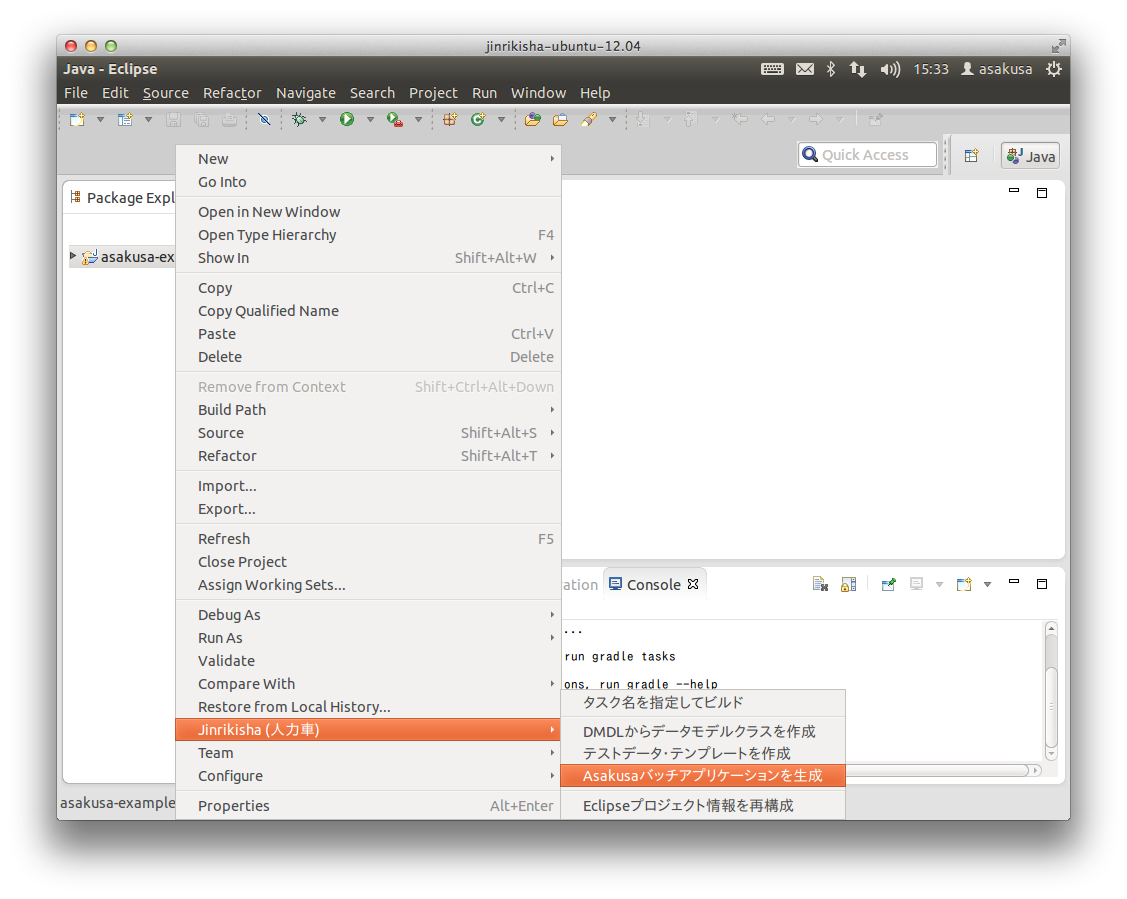
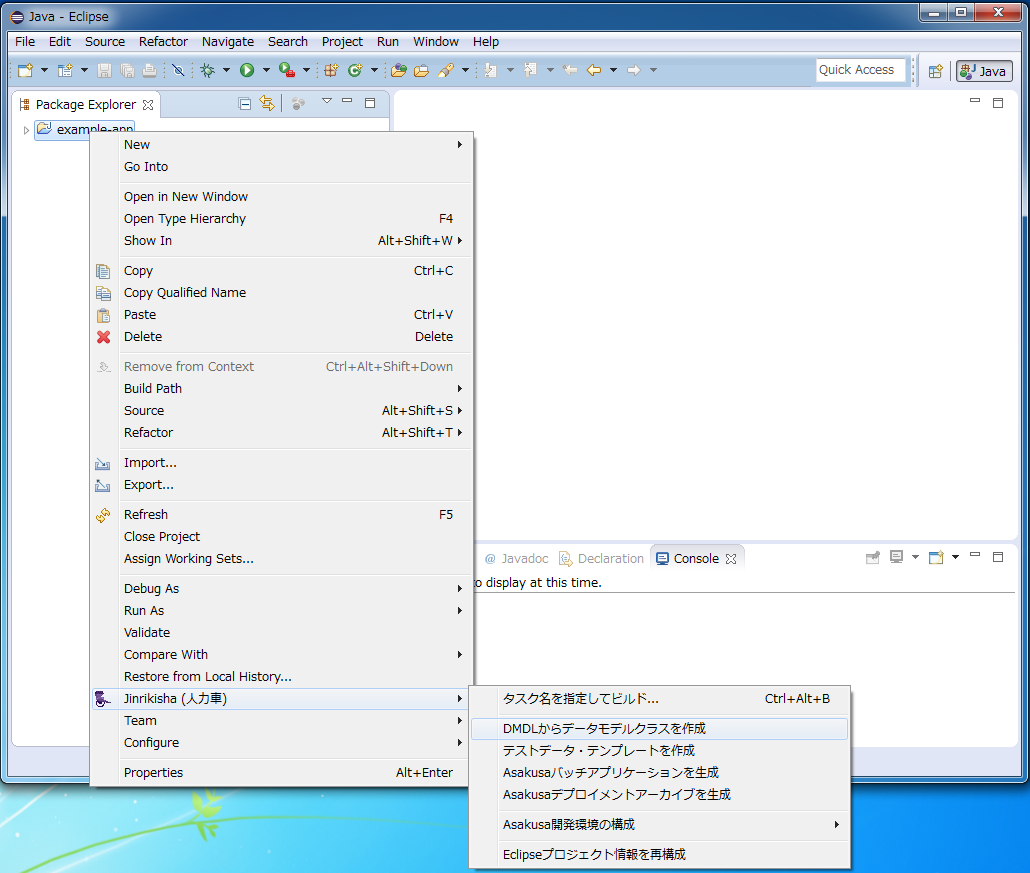
Revised document for release 0.7.2

diff --git a/jinrikisha/docs/ja/source/conf.py b/jinrikisha/docs/ja/source/conf.py
@@ -55,9 +55,9 @@ copyright = u'2012-2014, Asakusa Framework Team'
 # built documents.
 #
 # The short X.Y version.
-version = '0.7.1'
+version = '0.7.2'
 # The full version, including alpha/beta/rc tags.
-release = '0.7.1'
+release = '0.7.2'
 
 # The language for content autogenerated by Sphinx. Refer to documentation
 # for a list of supported languages.

diff --git a/jinrikisha/docs/ja/source/shafu.rst b/jinrikisha/docs/ja/source/shafu.rst
@@ -29,7 +29,7 @@ Shafuは以下のプラットフォームで動作を検証しています。
       - 備考
     * - IDE
       - Eclipse
-      - 4.3.2 / 4.4.0
+      - 4.3.2 / 4.4.1
       - 
     * - Java
       - Oracle JDK
@@ -50,7 +50,11 @@ Shafuは以下のプラットフォームで動作を検証しています。
     * - OS
       - MacOSX
       - 10.7 / 10.9
-      - 基本的な動作確認のみ [#]_
+      - [#]_
+    * - OS
+      - Windows
+      - 7 SP1 / 8.1
+      -
 
 ..  [#] MacOSXでJDK6を利用する場合、Eclipse実行時の文字エンコーディングをUTF-8などの日本語を利用できる環境にする必要があります。 `Eclipseの公式サイト`_ などを参考に、 ``eclipse.ini`` ファイルの ``-vmargs`` 以降の行に ``-Dfile.encoding=UTF-8`` の記述を追加してください。なおJinrikishaで構築した環境では環境変数 ``_JAVA_OPTIONS`` 経由で ``file.encoding`` が設定されるためこの設定は不要です。
 
@@ -93,55 +97,79 @@ Gradleプロジェクトのインポート
 ------------------------------
 ローカルに配置したGradleベースのプロジェクトをEclipseワークスペース上にインポートすることができます。単体のプロジェクトをインポートするほか、複数のプロジェクトから構成されるマルチプロジェクト構成のプロジェクトを一括してインポートすることもできます。
 
-..  figure:: images/shafu-import-project.png
-    :width: 100%
-
 #. Javaパースペクティブ上のメインメニューなどから ``[File]`` - ``[Import]`` を選択します。
 #. インポート選択画面で ``[Jinrikisha (人力車)]`` - ``[Gradle プロジェクト]`` を選択して ``[Next >]`` ボタンを押します。
 #. プロジェクトディレクトリーの選択ダイアログで、ローカルに配置されているGradleプロジェクトのディレクトリーパスを選択して ``[Next >]`` ボタンを押します。
 #. インポート対象のプロジェクト選択で、インポート対象のプロジェクトを選択して ``[Finish]`` ボタンを押します。
 
-
 プロジェクトのビルド
 --------------------
-プロジェクトのデータモデルクラスの生成やバッチコンパイルなど、Asakusa FrameworkがGradleを利用する各ビルド機能を実行することができます。
+プロジェクトのデータモデルクラスの生成やAsakusa DSLのコンパイルなど、Asakusa FrameworkがGradleを利用する各ビルド機能を実行することができます。
 
 ..  figure:: images/shafu-build-project.png
     :width: 100%
 
 #. プロジェクトを選択してコンテキストメニュー(右クリックなどで表示されるメニュー)を表示します。
-#. コンテキストメニューの ``[Jinrikisha (人力車)]`` を選択し、サブメニューとして表示される各ビルド機能を選択します。
+#. コンテキストメニューの ``[Jinrikisha (人力車)]`` を選択し、サブメニューとして表示される以下の各ビルド機能を選択します。
 
-``タスク名を指定してビルド``
-  プロジェクトに対して任意のGradleタスクを実行することができます。以降で説明するShafuの標準メニュー以外のタスクはここから実行することができます。
+..  list-table:: ``[Jinrikisha (人力車)]`` メニュー
+    :widths: 3 5 2
+    :header-rows: 1
 
-``DMDLからデータモデルクラスを生成``
-  DMDLスクリプトからデータモデルクラスを生成します。 Asakusa Gradle Pluginが提供する ``compileDMDL`` タスクを実行します。
+    * - メニュー名
+      - 説明
+      - Gradleタスク [#]_
+    * - ``タスク名を指定してビルド``
+      - 任意のGradleタスクを入力して実行する
+      - ``-``
+    * - ``DMDLからデータモデルクラスを生成``
+      - DMDLスクリプトからデータモデルクラスを生成
+      - ``compileDMDL``
+    * - ``テストデータ・テンプレートを生成``
+      - DMDLスクリプトからTestDriverのテストデータを定義するExcelブックを生成する
+      - ``generateTestbook``
+    * - ``Asakusaバッチアプリケーションを生成``
+      - Asakusa DSLをバッチコンパイルして、バッチアプリケーションアーカイブファイルを生成する
+      - ``jarBatchapp``
+    * - ``Asakusaデプロイメントアーカイブを生成``
+      - Asakusa Frameworkの実行環境一式を含むデプロイメントアーカイブファイルを生成する
+      - ``assemble``
+    * - ``Asakusa開発環境の構成``
+      - Asakusa Frameworkの開発環境をセットアップするためのサブメニューを表示する
+      - ``-``
+    * - ``Eclipseプロジェクト情報を再構成``
+      - Eclipseのプロジェクト定義ファイルを再作成する [#]_
+      - ``eclipse``
 
-``テストデータ・テンプレートを生成``
-  DMDLスクリプトからTestDriverのテストデータを定義するExcelブックを生成します。 Asakusa Gradle Pluginが提供する ``generateTestbook`` タスクを実行します。
+..  list-table:: ``[Asakusa開発環境の構成]`` サブメニュー
+    :widths: 3 5 2
+    :header-rows: 1
 
-``Asakusaバッチアプリケーションを生成``
-  Asakusa DSLをバッチコンパイルして、実行環境にデプロイするバッチアプリケーションアーカイブを生成します。Asakusa Gradle Pluginが提供する ``jarBatchapp`` タスクを実行します。
+    * - メニュー名
+      - 説明
+      - Gradleタスク
+    * - ``Asakusa Frameworkのインストール``
+      - 開発用のAsakusa Frameworkをインストールする
+      - ``installAsakusafw``
 
-``Eclipseプロジェクト情報を再構成``
-  Eclipseのプロジェクト定義ファイルを再作成します。プロジェクトにライブラリを追加した場合などに使用します。Asakusa Gradle Pluginが提供する ``eclipse`` タスクを実行します。
+..  [#] 各メニューの選択時に実行されるAsakusa Gradle PluginのGradleタスクです。詳しくはAsakusa Frameworkのドキュメント `Asakusa Gradle Plugin利用ガイド`_ を参照してください。
+..  [#] Asakusa Frameworkのバージョンアップやアプリケーションライブラリの追加などで、Eclipseプロジェクトのクラスパス情報を更新する場合に使用します。
 
 設定
 ====
-Shafu の設定画面からShafuの設定を変更することができます。
+Eclipseの設定画面からShafuの設定を変更することができます。
 
 ..  figure:: images/shafu-preferences.png
     :width: 100%
 
-#. メインメニューから ``[Window]`` - ``[Preferences]`` を選択します。
-#. プリファレンス画面のサイドメニューから ``[Jinrikisha  (人力車)]`` を選択します。
+#. メニューバーから ``[Window]`` - ``[Preferences]`` を選択します。
+#. Eclipse設定画面のサイドメニューから ``[Jinrikisha  (人力車)]`` を選択します。
 
 Jinrikisha (人力車) ページ
 --------------------------
 
 ``基本``
-  Gradleのログレベルやオフラインモードの設定など、Gradleの動作に関する設定を行います。
+  Gradleのログレベルやバージョン、オフラインモードの設定など、Gradleの動作に関する設定を行います。
 
 ``プロジェクト``
   Gradleのプロジェクトビルド時に使用するプロジェクトプロパティーを設定することができます。
@@ -159,6 +187,27 @@ Asakusa Framework ページ
     Asakusa Frameworkが公開しているテスト用のバージョン (スナップショットビルドやRC版）を使用したい場合は、テンプレートカタログURLを以下のURLに変更します。
 
     http://www.asakusafw.com/download/gradle-plugin/template-catalog-develop.txt
+
+拡張機能
+^^^^^^^^
+
+``テスト時にエミュレーションモードを有効にする``
+  `Gradleプロジェクトをテンプレートから生成`_  を使った新規プロジェクトの作成時やプロジェクトに対して ``Eclipseプロジェクト情報を再構成`` を実行した場合に、プロジェクトに対してエミュレーションモード [#]_ を利用する設定を追加します。
+
+..  [#] エミュレーションモードについては、Asakusa Frameworkのドキュメント `エミュレーションモードによるアプリケーションテスト`_ を参照してください。
+
+
+..  _`エミュレーションモードによるアプリケーションテスト`: http://asakusafw.s3.amazonaws.com/documents/latest/release/ja/html/testing/emulation-mode.html
+
+現在の設定
+^^^^^^^^^^
+現在の環境の設定に関する情報を表示します。この画面から各項目の値を編集することはできません。
+
+``フレームワークのインストール先 (ASAKUSA_HOME)``
+  現在の環境で設定されている環境変数 ``ASAKUSA_HOME`` の値を表示します。
+
+``Hadoopコマンドの場所``
+  現在の環境で使用するHadoopコマンドのパスを表示します。
 
 ネットワークプロキシの設定
 ==========================

diff --git a/jinrikisha/docs/ja/source/download-archive.rst b/jinrikisha/docs/ja/source/download-archive.rst
@@ -3,6 +3,27 @@ Jinrikisha ダウンロードアーカイブ
 =================================
 過去バージョンのJinrikshaのダウンロードページです。
 
+ver 0.7.1
+=========
+
+Linux-32bit版
+-------------
+* `jinrikisha-linux-32bit-0.7.1.tar.gz`_
+
+..  _`jinrikisha-linux-32bit-0.7.1.tar.gz`: http://www.asakusafw.com/download/jinrikisha/linux/jinrikisha-linux-32bit-0.7.1.tar.gz
+
+Linux-64bit版
+-------------
+* `jinrikisha-linux-64bit-0.7.1.tar.gz`_
+
+..  _`jinrikisha-linux-64bit-0.7.1.tar.gz`: http://www.asakusafw.com/download/jinrikisha/linux/jinrikisha-linux-64bit-0.7.1.tar.gz
+
+MacOSX版 (Experimental)
+-----------------------
+* `jinrikisha-macosx-0.7.1.tar.gz`_
+
+..  _`jinrikisha-macosx-0.7.1.tar.gz`: http://www.asakusafw.com/download/jinrikisha/macosx/jinrikisha-macosx-0.7.1.tar.gz
+
 ver 0.7.0
 =========
 

diff --git a/jinrikisha/docs/ja/source/release-notes.rst b/jinrikisha/docs/ja/source/release-notes.rst
@@ -4,6 +4,20 @@
 Jinrikisha リリースノート
 =========================
 
+Release 0.7.2
+=============
+Jan XX, 2015
+
+* Asakusa Framework 0.7.2 を推奨バージョンに変更
+* 同梱するEclipseのバージョンを 4.4.1 にアップデート
+* 同梱するHiveのバージョンを 0.14.0 にアップデート
+* Shafuのドキュメントを最新バージョンに合わせてアップデート
+
+  * :doc:`shafu`
+
+..  attention::
+    同梱のソフトウェアに対する動作検証などの理由により、 本バージョン以降では **インストールするAsakusa Frameworkのバージョンは 0.7.2 以降に指定することを強く推奨します。**
+
 Release 0.7.1
 =============
 Nov 20, 2014

diff --git a/jinrikisha/docs/ja/source/install.rst b/jinrikisha/docs/ja/source/install.rst
@@ -121,7 +121,7 @@ Asakusa Frameworkの開発環境をインストールするディレクトリパ
 
 ..  code-block:: sh
 
-    2) Asakusa Frameworkのバージョンを入力してください。: 0.7.1:
+    2) Asakusa Frameworkのバージョンを入力してください。: 0.7.2:
 
 ..  attention::
     基本的にはデフォルトの推奨バージョンをそのまま利用することを推奨します。その他のバージョンとの組み合わせは動作検証が行われていない可能性があります。
